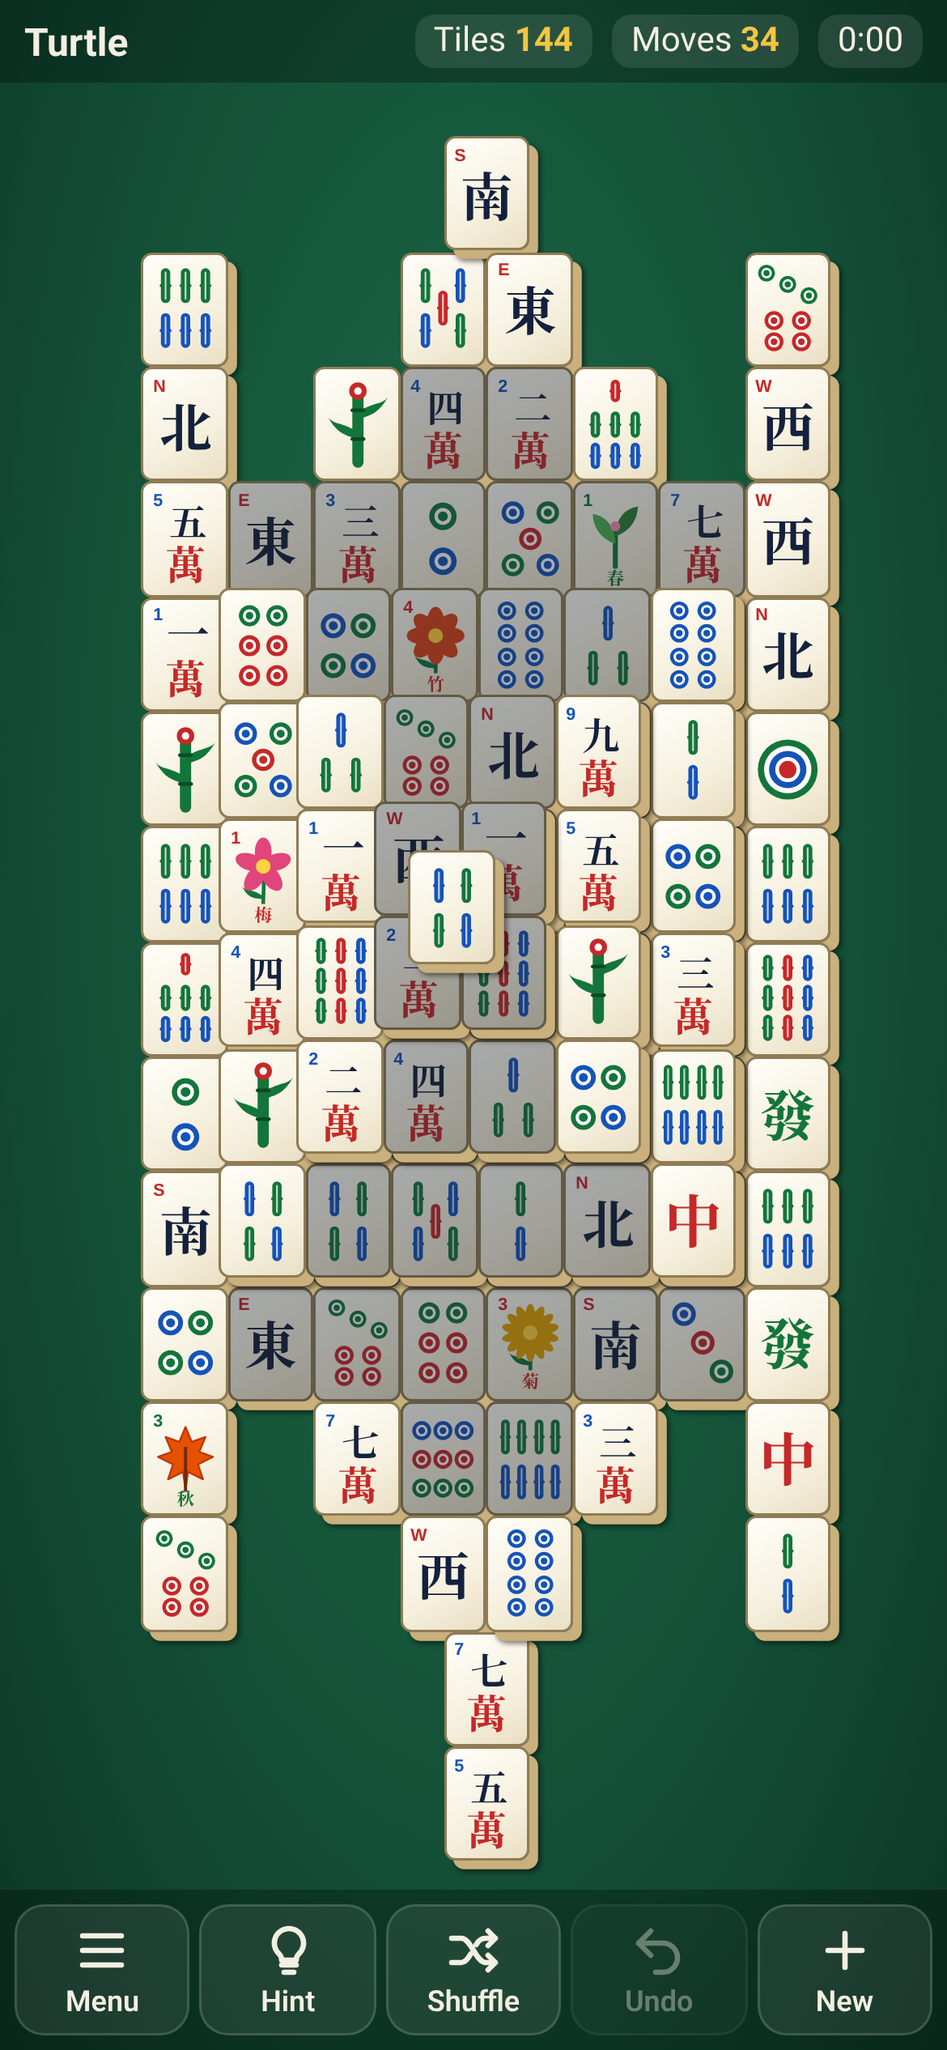
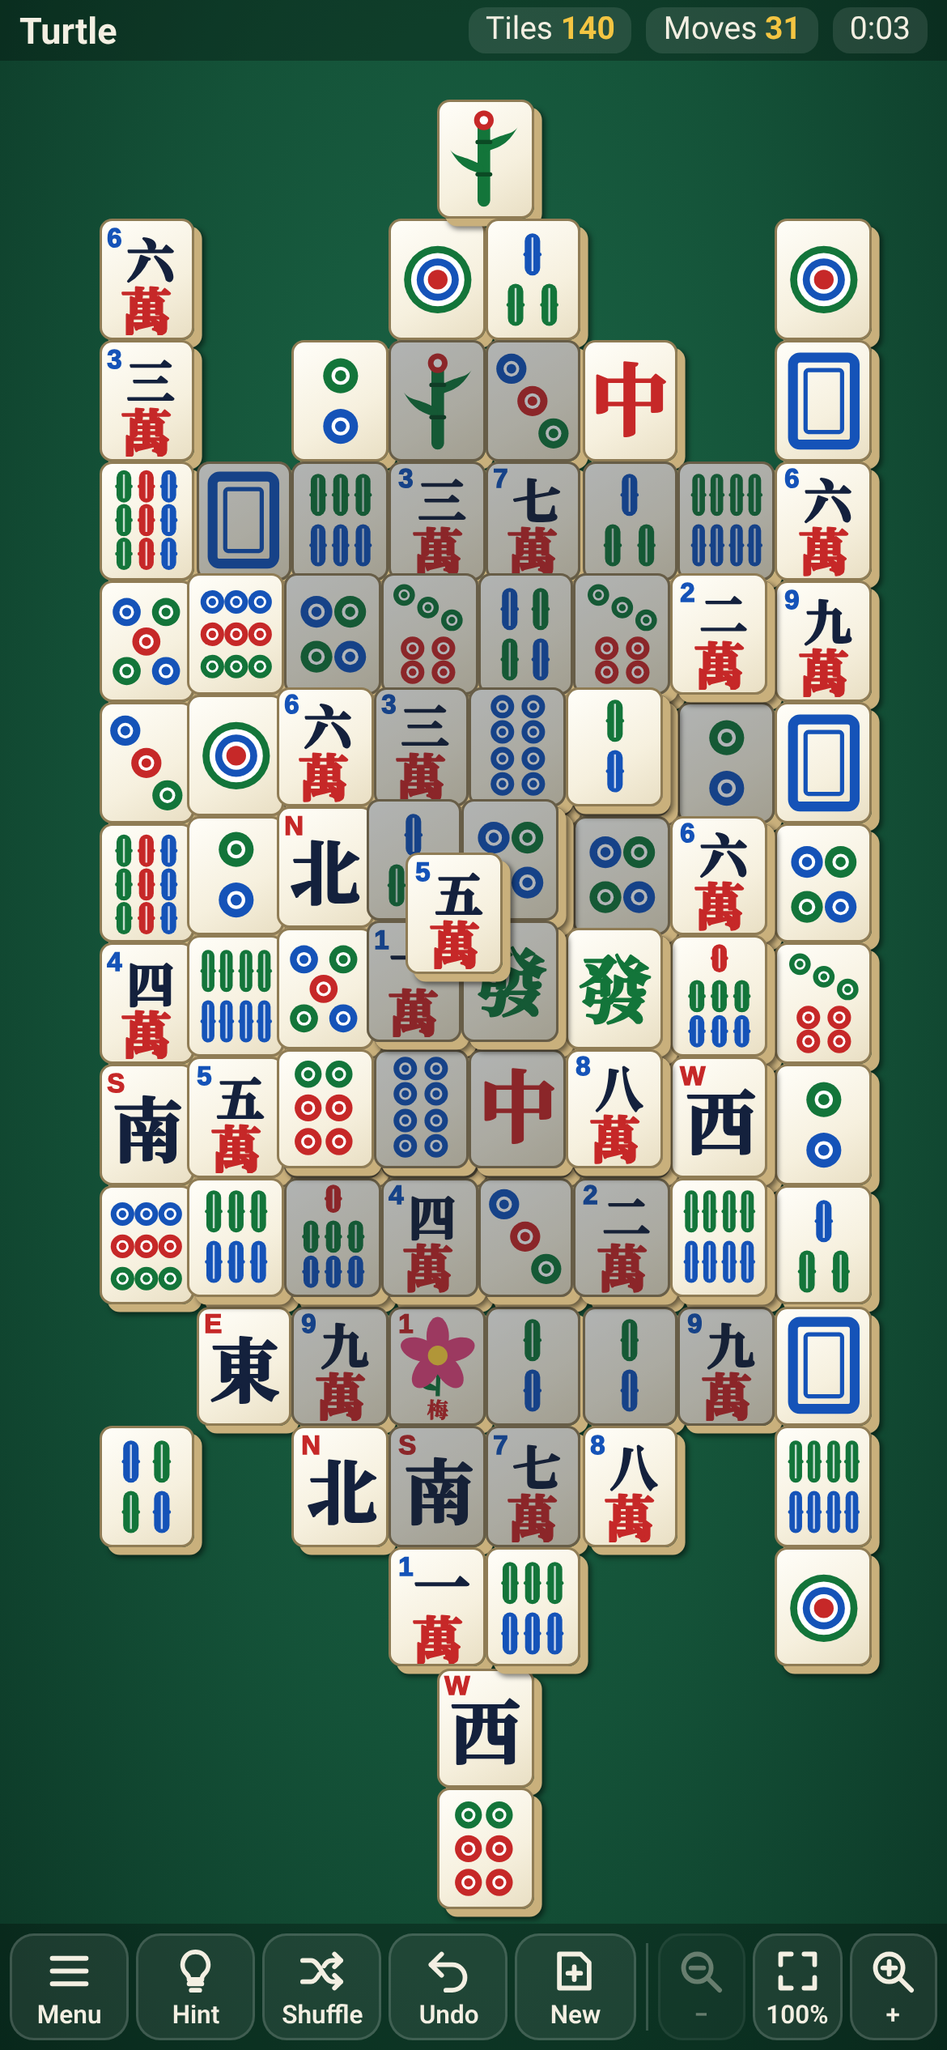
Add pinch/pan zoom with +/−/fit buttons, larger default tiles, bolder tile faces

diff --git a/index.html b/index.html
@@ -15,22 +15,24 @@
 html,body{margin:0;height:100%;overflow:hidden;overscroll-behavior:none}
 body{position:fixed;inset:0;display:flex;flex-direction:column;font-family:-apple-system,BlinkMacSystemFont,"Segoe UI",Roboto,Helvetica,Arial,sans-serif;color:var(--text);
  background:radial-gradient(ellipse at 50% 40%,#1d6b4a 0%,#145238 55%,#0c3726 100%);user-select:none;-webkit-user-select:none;-webkit-touch-callout:none;touch-action:manipulation}
-header{display:flex;align-items:center;gap:8px;padding:calc(env(safe-area-inset-top) + 6px) calc(env(safe-area-inset-right) + 10px) 6px calc(env(safe-area-inset-left) + 10px);background:rgba(0,0,0,.28);font-size:14px;flex:none}
-header .name{font-weight:700;font-size:16px;flex:1;white-space:nowrap;overflow:hidden;text-overflow:ellipsis}
-header .stat{background:rgba(255,255,255,.1);border-radius:8px;padding:3px 8px;white-space:nowrap;font-variant-numeric:tabular-nums}
+header{display:flex;align-items:center;gap:6px;padding:calc(env(safe-area-inset-top) + 3px) calc(env(safe-area-inset-right) + 8px) 3px calc(env(safe-area-inset-left) + 8px);background:rgba(0,0,0,.28);font-size:13px;flex:none}
+header .name{font-weight:700;font-size:15px;flex:1;white-space:nowrap;overflow:hidden;text-overflow:ellipsis}
+header .stat{background:rgba(255,255,255,.1);border-radius:7px;padding:2px 7px;white-space:nowrap;font-variant-numeric:tabular-nums}
 header .stat b{color:var(--accent)}
-#boardWrap{flex:1;position:relative;overflow:hidden;min-height:0}
-#board{position:absolute;inset:0}
-footer{display:flex;justify-content:space-around;gap:4px;padding:6px calc(env(safe-area-inset-right) + 6px) calc(env(safe-area-inset-bottom) + 6px) calc(env(safe-area-inset-left) + 6px);background:rgba(0,0,0,.28);flex:none}
-footer button{flex:1;max-width:110px;display:flex;flex-direction:column;align-items:center;gap:2px;background:rgba(255,255,255,.08);color:var(--text);border:1px solid rgba(255,255,255,.15);border-radius:12px;padding:6px 2px;font-size:12px;font-weight:600;cursor:pointer;font-family:inherit}
+#boardWrap{flex:1;position:relative;overflow:hidden;min-height:0;touch-action:none}
+#board{position:absolute;inset:0;transform-origin:0 0}
+footer{display:flex;justify-content:space-around;gap:3px;padding:4px calc(env(safe-area-inset-right) + 4px) calc(env(safe-area-inset-bottom) + 4px) calc(env(safe-area-inset-left) + 4px);background:rgba(0,0,0,.28);flex:none}
+footer button{flex:1;min-width:0;max-width:100px;display:flex;flex-direction:column;align-items:center;gap:1px;background:rgba(255,255,255,.08);color:var(--text);border:1px solid rgba(255,255,255,.15);border-radius:10px;padding:4px 1px 3px;font-size:10.5px;font-weight:600;cursor:pointer;font-family:inherit;touch-action:manipulation}
+footer button.z{flex:.72;justify-content:center}
+footer .sep{width:1px;background:rgba(255,255,255,.18);margin:4px 1px}
 footer button:active{background:rgba(255,255,255,.22)}
 footer button:disabled{opacity:.4}
-footer svg{width:24px;height:24px;fill:none;stroke:currentColor;stroke-width:2.2;stroke-linecap:round;stroke-linejoin:round}
+footer svg{width:21px;height:21px;fill:none;stroke:currentColor;stroke-width:2.2;stroke-linecap:round;stroke-linejoin:round}
 .tile{position:absolute;border-radius:calc(var(--w)*.13);background:linear-gradient(150deg,#fffef9 0%,#f6f0de 60%,#e9dfc4 100%);border:1px solid #8f7c55;
  box-shadow:var(--d) var(--d) 0 0 #c9b07c,calc(var(--d) + 1px) calc(var(--d) + 1px) 2px 0 rgba(0,0,0,.5);cursor:pointer;transition:opacity .18s,transform .18s}
-.tile svg{position:absolute;inset:4%;width:92%;height:92%;pointer-events:none}
+.tile svg{position:absolute;inset:1.5%;width:97%;height:97%;pointer-events:none}
 .tile::after{content:"";position:absolute;inset:-1px;border-radius:inherit;pointer-events:none;background:transparent;transition:background .15s}
-body.dim .tile.blocked::after{background:rgba(25,35,45,.38)}
+body.dim .tile.blocked::after{background:rgba(25,35,45,.34)}
 .tile.sel{background:linear-gradient(150deg,#fff6c4,#ffd84d);border-color:#c27c00;box-shadow:var(--d) var(--d) 0 0 #c99a2e,0 0 0 2px #ff9d00,0 0 10px 3px rgba(255,190,0,.8)}
 .tile.hint{animation:hint .5s ease-in-out 4 alternate}
 @keyframes hint{from{background:linear-gradient(150deg,#fffef9,#e9dfc4)}to{background:linear-gradient(150deg,#d7f6ff,#6fd3ff);box-shadow:var(--d) var(--d) 0 0 #4a9fc0,0 0 0 2px #00a6ff,0 0 12px 4px rgba(0,170,255,.85)}}
@@ -72,7 +74,11 @@ body.dim .tile.blocked::after{background:rgba(25,35,45,.38)}
   <button id="bHint" aria-label="Hint"><svg viewBox="0 0 24 24"><path d="M9 18h6M10 21h4M12 3a6 6 0 0 0-4 10.5c.8.8 1 1.6 1 2.5h6c0-.9.2-1.7 1-2.5A6 6 0 0 0 12 3z"/></svg>Hint</button>
   <button id="bShuffle" aria-label="Shuffle"><svg viewBox="0 0 24 24"><path d="M3 7h4c4 0 6 10 10 10h4M3 17h4c1.6 0 2.8-1.6 3.9-3.6M13.1 9.6C14.2 7.6 15.4 7 17 7h4M18 4l3 3-3 3M18 14l3 3-3 3"/></svg>Shuffle</button>
   <button id="bUndo" aria-label="Undo"><svg viewBox="0 0 24 24"><path d="M9 14L4 9l5-5"/><path d="M4 9h10a6 6 0 0 1 0 12h-3"/></svg>Undo</button>
-  <button id="bNew" aria-label="New game"><svg viewBox="0 0 24 24"><path d="M12 5v14M5 12h14"/></svg>New</button>
+  <button id="bNew" aria-label="New game"><svg viewBox="0 0 24 24"><path d="M5 4h10l4 4v12H5zM12 10v6M9 13h6"/></svg>New</button>
+  <span class="sep"></span>
+  <button id="zOut" class="z" aria-label="Zoom out"><svg viewBox="0 0 24 24"><circle cx="10.5" cy="10.5" r="6.5"/><path d="M15.5 15.5L21 21M7.5 10.5h6"/></svg><span>−</span></button>
+  <button id="zFit" class="z" aria-label="Fit board"><svg viewBox="0 0 24 24"><path d="M4 9V4h5M20 9V4h-5M4 15v5h5M20 15v5h-5"/></svg><span id="zLbl">100%</span></button>
+  <button id="zIn" class="z" aria-label="Zoom in"><svg viewBox="0 0 24 24"><circle cx="10.5" cy="10.5" r="6.5"/><path d="M15.5 15.5L21 21M7.5 10.5h6M10.5 7.5v6"/></svg><span>+</span></button>
 </footer>
 <div id="toast"></div>
 <div id="modal"><div class="card scroll" id="card"></div></div>
@@ -85,9 +91,9 @@ body.dim .tile.blocked::after{background:rgba(25,35,45,.38)}
 // 31-33 dragons red/green/white, 34-37 flowers, 38-41 seasons
 var RED="#c62828",GRN="#13753a",BLU="#1553b8",INK="#14213d";
 var CJK='"Noto Serif CJK SC","Noto Serif CJK TC","Songti SC","STSong","PingFang SC","Hiragino Sans GB","Microsoft YaHei","Noto Sans CJK SC",serif';
-function txt(x,y,s,size,fill,extra){return '<text x="'+x+'" y="'+y+'" font-size="'+size+'" fill="'+fill+'" text-anchor="middle" font-weight="700" font-family=\''+CJK+'\' '+(extra||'')+'>'+s+'</text>';}
-function idx(s,fill){return '<text x="4" y="14" font-size="14" fill="'+(fill||BLU)+'" font-weight="800" font-family="Arial,Helvetica,sans-serif">'+s+'</text>';}
-function dot(cx,cy,r,c){return '<circle cx="'+cx+'" cy="'+cy+'" r="'+r+'" fill="'+c+'"/><circle cx="'+cx+'" cy="'+cy+'" r="'+(r*.62).toFixed(2)+'" fill="#fff"/><circle cx="'+cx+'" cy="'+cy+'" r="'+(r*.36).toFixed(2)+'" fill="'+c+'"/>';}
+function txt(x,y,s,size,fill,extra){return '<text x="'+x+'" y="'+y+'" font-size="'+size+'" fill="'+fill+'" stroke="'+fill+'" stroke-width="'+(size>=30?1.6:.6)+'" stroke-linejoin="round" text-anchor="middle" font-weight="900" font-family=\''+CJK+'\' '+(extra||'')+'>'+s+'</text>';}
+function idx(s,fill){return '<text x="2" y="17" font-size="19" fill="'+(fill||BLU)+'" stroke="'+(fill||BLU)+'" stroke-width=".8" font-weight="900" font-family="Arial,Helvetica,sans-serif">'+s+'</text>';}
+function dot(cx,cy,r,c){return '<circle cx="'+cx+'" cy="'+cy+'" r="'+r+'" fill="'+c+'"/><circle cx="'+cx+'" cy="'+cy+'" r="'+(r*.52).toFixed(2)+'" fill="#fff"/><circle cx="'+cx+'" cy="'+cy+'" r="'+(r*.32).toFixed(2)+'" fill="'+c+'"/>';}
 function stick(cx,cy,len,c,w){w=w||7.5;var x=cx-w/2,y=cy-len/2;
   return '<rect x="'+x+'" y="'+y+'" width="'+w+'" height="'+len+'" rx="'+(w/2)+'" fill="'+c+'"/>'+
   '<rect x="'+(x-1)+'" y="'+(cy-1.3)+'" width="'+(w+2)+'" height="2.6" rx="1.3" fill="'+c+'"/>'+
@@ -102,7 +108,7 @@ function dotsFace(n){
    8:[[19,12,7.4,B],[41,12,7.4,B],[19,30,7.4,B],[41,30,7.4,B],[19,49,7.4,B],[41,49,7.4,B],[19,67,7.4,B],[41,67,7.4,B]],
    9:[[13,17,7.6,B],[30,17,7.6,B],[47,17,7.6,B],[13,40,7.6,R],[30,40,7.6,R],[47,40,7.6,R],[13,63,7.6,G],[30,63,7.6,G],[47,63,7.6,G]]};
   if(n===1){return '<circle cx="30" cy="40" r="24" fill="'+G+'"/><circle cx="30" cy="40" r="19" fill="#fff"/><circle cx="30" cy="40" r="15" fill="'+B+'"/><circle cx="30" cy="40" r="10" fill="#fff"/><circle cx="30" cy="40" r="7" fill="'+R+'"/>';}
-  L[n].forEach(function(d){s+=dot(d[0],d[1],d[2],d[3]);});return s;}
+  L[n].forEach(function(d){s+=dot(d[0],d[1],Math.min(d[2]*1.13,n>=7?8.4:n>=5?10:13),d[3]);});return s;}
 function bambooFace(n){
   var G=GRN,R=RED,B=BLU,s='';
   if(n===1){ // bird-ish emblem: big stalk with leaves
@@ -117,22 +123,22 @@ function bambooFace(n){
    7:[[30,13,18,R],[14,40,21,G],[30,40,21,G],[46,40,21,G],[14,65,21,B],[30,65,21,B],[46,65,21,B]],
    8:[[10,22,28,G],[23,22,28,G],[37,22,28,G],[50,22,28,G],[10,58,28,B],[23,58,28,B],[37,58,28,B],[50,58,28,B]],
    9:[[14,16,21,G],[30,16,21,R],[46,16,21,B],[14,40,21,G],[30,40,21,R],[46,40,21,B],[14,64,21,G],[30,64,21,R],[46,64,21,B]]};
-  P[n].forEach(function(d){s+=stick(d[0],d[1],d[2],d[3],n===8?7:7.5);});return s;}
+  P[n].forEach(function(d){s+=stick(d[0],d[1],d[2]+2,d[3],n===8?9:n===6||n===9||n===7?10.5:11);});return s;}
 var NUM=['一','二','三','四','五','六','七','八','九'];
-function charFace(n){return idx(n)+txt(32,38,NUM[n-1],n===1?34:30,INK)+txt(30,73,'萬',32,RED);}
+function charFace(n){return idx(n)+txt(33,39,NUM[n-1],n===1?40:34,INK)+txt(30,76,'萬',36,RED);}
 var WIND=[['東','E'],['南','S'],['西','W'],['北','N']];
-function windFace(i){return idx(WIND[i][1],RED)+txt(30,58,WIND[i][0],42,INK);}
+function windFace(i){return idx(WIND[i][1],RED)+txt(31,62,WIND[i][0],50,INK);}
 function dragonFace(i){
-  if(i===0)return txt(30,57,'中',46,RED);
-  if(i===1)return txt(30,57,'發',44,GRN);
-  return '<rect x="11" y="13" width="38" height="54" rx="4" fill="none" stroke="'+BLU+'" stroke-width="5"/><rect x="18" y="20" width="24" height="40" rx="2" fill="none" stroke="'+BLU+'" stroke-width="2"/>';}
+  if(i===0)return txt(30,60,'中',56,RED);
+  if(i===1)return txt(30,60,'發',52,GRN);
+  return '<rect x="8" y="9" width="44" height="62" rx="5" fill="none" stroke="'+BLU+'" stroke-width="7"/><rect x="17" y="18" width="26" height="44" rx="2" fill="none" stroke="'+BLU+'" stroke-width="3"/>';}
 function flower(cx,cy,np,pr,pc,cc){var s='';for(var k=0;k<np;k++){var a=360*k/np;
   s+='<ellipse cx="'+cx+'" cy="'+(cy-pr*.55)+'" rx="'+(pr*(np>8?.2:.32))+'" ry="'+(pr*.55)+'" fill="'+pc+'" transform="rotate('+a+' '+cx+' '+cy+')"/>';}
   return s+'<circle cx="'+cx+'" cy="'+cy+'" r="'+(pr*.28)+'" fill="'+cc+'"/>';}
 var FL=[['梅',5,'#e0457b'],['蘭',6,'#7b3fbf'],['菊',14,'#e0a100'],['竹',8,'#d84315']];
 function flowerFace(i){var f=FL[i];
   return idx(i+1,RED)+'<path d="M30 62 C30 52 31 46 30 40" stroke="'+GRN+'" stroke-width="3" fill="none"/><path d="M30 56 C22 50 16 52 13 48 C18 58 24 58 30 58Z" fill="'+GRN+'"/>'+
-   flower(30,32,f[1],21,f[2],'#ffd23f')+txt(30,76,f[0],14,RED);}
+   flower(30,33,f[1],25,f[2],'#ffd23f')+txt(30,77,f[0],15,RED);}
 var SE=['春','夏','秋','冬'];
 function seasonFace(i){var s=idx(i+1,GRN),ic='';
   if(i===0){ic='<path d="M30 62 L30 34" stroke="'+GRN+'" stroke-width="4" stroke-linecap="round"/><path d="M30 44 C18 40 12 30 12 20 C24 22 30 32 30 44Z" fill="#4caf50"/><path d="M30 38 C42 34 48 24 48 14 C36 16 30 26 30 38Z" fill="#2e7d32"/><circle cx="30" cy="30" r="4" fill="#f48fb1"/>';}
@@ -140,7 +146,7 @@ function seasonFace(i){var s=idx(i+1,GRN),ic='';
   else if(i===2){ic='<path d="M30 14 L35 26 L46 22 L41 34 L52 38 L40 44 L44 56 L32 50 L30 64 L28 50 L16 56 L20 44 L8 38 L19 34 L14 22 L25 26Z" fill="#e65100" stroke="#bf360c" stroke-width="1.5" stroke-linejoin="round"/><line x1="30" y1="30" x2="30" y2="66" stroke="#6d2b00" stroke-width="2.5"/>';}
   else {ic='<g stroke="#1e88e5" stroke-width="3.5" stroke-linecap="round">';for(var k2=0;k2<6;k2++){var b=k2*Math.PI/3,ex=30+Math.cos(b)*22,ey=38+Math.sin(b)*22;ic+='<line x1="30" y1="38" x2="'+ex.toFixed(1)+'" y2="'+ey.toFixed(1)+'"/>';
     var mx=30+Math.cos(b)*14,my=38+Math.sin(b)*14;ic+='<line x1="'+mx.toFixed(1)+'" y1="'+my.toFixed(1)+'" x2="'+(mx+Math.cos(b+.8)*6).toFixed(1)+'" y2="'+(my+Math.sin(b+.8)*6).toFixed(1)+'"/><line x1="'+mx.toFixed(1)+'" y1="'+my.toFixed(1)+'" x2="'+(mx+Math.cos(b-.8)*6).toFixed(1)+'" y2="'+(my+Math.sin(b-.8)*6).toFixed(1)+'"/>';}ic+='</g>';}
-  return s+ic+txt(30,77,SE[i],14,GRN);}
+  return s+'<g transform="translate(30 38) scale(1.18) translate(-30 -38)">'+ic+'</g>'+txt(30,78,SE[i],15,GRN);}
 function faceSVG(f){
   if(f<9)return dotsFace(f+1); if(f<18)return bambooFace(f-8); if(f<27)return charFace(f-17);
   if(f<31)return windFace(f-27); if(f<34)return dragonFace(f-31); if(f<38)return flowerFace(f-34); return seasonFace(f-38);}
@@ -236,11 +242,11 @@ var board=document.getElementById('board'),wrap=document.getElementById('boardWr
 function chooseTrans(id){
   if(prefs.orient==='wide')return false;if(prefs.orient==='tall')return true;
   var aw=wrap.clientWidth,ah=wrap.clientHeight;
-  return fitW(positionsFor(id,true),aw,ah)>fitW(positionsFor(id,false),aw,ah)*1.08;}
-var R=4/3,DZ=0.1;
+  return fitW(positionsFor(id,true),aw,ah)>fitW(positionsFor(id,false),aw,ah);}
+var R=1.25,DZ=0.08;
 function metrics(pos){var m={x:0,y:0,z:0};pos.forEach(function(p){m.x=Math.max(m.x,p.x+2);m.y=Math.max(m.y,p.y+2);m.z=Math.max(m.z,p.z);});return m;}
-function fitW(pos,aw,ah){var m=metrics(pos),pad=8;
-  return Math.min((aw-pad*2)/(m.x/2+DZ*(m.z+1)),(ah-pad*2)/(R*m.y/2+DZ*(m.z+1)),96);}
+function fitW(pos,aw,ah){var m=metrics(pos),pad=3;
+  return Math.min((aw-pad*2)/(m.x/2+DZ*(m.z+1)),(ah-pad*2)/(R*m.y/2+DZ*(m.z+1)),110);}
 function newGame(id){
   id=id||prefs.layout;prefs.layout=id;store('mj.prefs',prefs);
   if(G&&G.counted&&!G.won){stats.streak=0;store('mj.stats',stats);}
@@ -266,7 +272,8 @@ function layout(){if(!G)return;
   var bw=m.x/2*W+d*(m.z+1),bh=m.y/2*H+d*(m.z+1),ox=(aw-bw)/2,oy=(ah-bh)/2;
   board.style.setProperty('--w',W+'px');board.style.setProperty('--d',d.toFixed(1)+'px');
   G.pos.forEach(function(p,i){var e=els[i];e.style.left=(ox+p.x/2*W+(m.z-p.z)*d).toFixed(1)+'px';e.style.top=(oy+p.y/2*H+(m.z-p.z)*d).toFixed(1)+'px';
-    e.style.width=W.toFixed(1)+'px';e.style.height=H.toFixed(1)+'px';});}
+    e.style.width=W.toFixed(1)+'px';e.style.height=H.toFixed(1)+'px';});
+  applyZoom();}
 function freeList(){var r=[];for(var i=0;i<G.pos.length;i++)if(G.alive[i]&&isFree(NB,G.alive,i))r.push(i);return r;}
 function allPairs(){var fr=freeList(),out=[];for(var a=0;a<fr.length;a++)for(var b=a+1;b<fr.length;b++)if(matches(G.face[fr[a]],G.face[fr[b]]))out.push([fr[a],fr[b]]);return out;}
 function remaining(){var c=0;G.alive.forEach(function(a){if(a)c++;});return c;}
@@ -286,7 +293,56 @@ setInterval(function(){var now=Date.now();
   lastTick=now;},250);
 
 /* ---------- Interaction ---------- */
-board.addEventListener('click',function(ev){var t=ev.target.closest('.tile');if(!t||!G||G.won)return;tap(+t.dataset.i);});
+/* Zoom & pan: board is transformed with translate+scale; taps select, drags pan, two fingers pinch. */
+var Z={s:Math.min(3,Math.max(1,+prefs.zoom||1)),tx:0,ty:0},ZMIN=1,ZMAX=3,ptrs={},gest=null,lastGesture=0,lastPtrTap=0,zSaveT;
+function clampZ(){var aw=wrap.clientWidth,ah=wrap.clientHeight;Z.s=Math.min(ZMAX,Math.max(ZMIN,Z.s));
+  Z.tx=Math.min(0,Math.max(aw*(1-Z.s),Z.tx));Z.ty=Math.min(0,Math.max(ah*(1-Z.s),Z.ty));}
+function applyZoom(){clampZ();board.style.transform='translate('+Z.tx.toFixed(1)+'px,'+Z.ty.toFixed(1)+'px) scale('+Z.s.toFixed(3)+')';
+  document.getElementById('zLbl').textContent=Math.round(Z.s*100)+'%';
+  document.getElementById('zOut').disabled=Z.s<=ZMIN+1e-3;document.getElementById('zIn').disabled=Z.s>=ZMAX-1e-3;}
+function saveZoom(){clearTimeout(zSaveT);zSaveT=setTimeout(function(){prefs.zoom=+Z.s.toFixed(3);store('mj.prefs',prefs);},150);}
+function zoomAt(cx,cy,ns){var cX=(cx-Z.tx)/Z.s,cY=(cy-Z.ty)/Z.s;Z.s=Math.min(ZMAX,Math.max(ZMIN,ns));Z.tx=cx-cX*Z.s;Z.ty=cy-cY*Z.s;applyZoom();saveZoom();}
+function zoomCenter(ns){zoomAt(wrap.clientWidth/2,wrap.clientHeight/2,ns);}
+function centerPan(){Z.tx=wrap.clientWidth*(1-Z.s)/2;Z.ty=wrap.clientHeight*(1-Z.s)/2;applyZoom();}
+function rel(e){var r=wrap.getBoundingClientRect();return {x:e.clientX-r.left,y:e.clientY-r.top};}
+function ptrList(){return Object.keys(ptrs).map(function(k){return ptrs[k];});}
+function startPinch(){var p=ptrList(),a=p[0],b=p[1],mx=(a.x+b.x)/2,my=(a.y+b.y)/2;
+  gest={mode:'pinch',d0:Math.max(10,Math.hypot(a.x-b.x,a.y-b.y)),s0:Z.s,cx:(mx-Z.tx)/Z.s,cy:(my-Z.ty)/Z.s};}
+wrap.addEventListener('pointerdown',function(e){
+  if(e.pointerType==='mouse'&&e.button!==0)return;
+  try{wrap.setPointerCapture(e.pointerId);}catch(_){}
+  var q=rel(e);ptrs[e.pointerId]={x:q.x,y:q.y};var n=ptrList().length;
+  if(n===1)gest={mode:'tap',x0:q.x,y0:q.y,tx0:Z.tx,ty0:Z.ty,cx:e.clientX,cy:e.clientY};
+  else if(n===2)startPinch();
+  else gest={mode:'done'};});
+wrap.addEventListener('pointermove',function(e){
+  if(!ptrs[e.pointerId]||!gest)return;var q=rel(e);ptrs[e.pointerId]={x:q.x,y:q.y};
+  if(gest.mode==='pinch'){var p=ptrList();if(p.length<2)return;var a=p[0],b=p[1],mx=(a.x+b.x)/2,my=(a.y+b.y)/2;
+    Z.s=Math.min(ZMAX,Math.max(ZMIN,gest.s0*Math.hypot(a.x-b.x,a.y-b.y)/gest.d0));Z.tx=mx-gest.cx*Z.s;Z.ty=my-gest.cy*Z.s;applyZoom();}
+  else if(gest.mode==='tap'||gest.mode==='pan'){var dx=q.x-gest.x0,dy=q.y-gest.y0;
+    if(gest.mode==='tap'&&Math.hypot(dx,dy)>9)gest.mode='pan';
+    if(gest.mode==='pan'){Z.tx=gest.tx0+dx;Z.ty=gest.ty0+dy;applyZoom();}}
+  e.preventDefault();});
+function ptrEnd(e){if(!ptrs[e.pointerId])return;delete ptrs[e.pointerId];var n=ptrList().length;
+  if(!gest)return;
+  if(gest.mode==='tap'&&n===0&&e.type==='pointerup'){gest=null;lastPtrTap=Date.now();hitTap(e.clientX,e.clientY);return;}
+  if(gest.mode!=='tap')lastGesture=Date.now();
+  if(gest.mode==='pinch'||gest.mode==='pan')saveZoom();
+  if(n===1&&gest.mode==='pinch'){var p=ptrList()[0];gest={mode:'pan',x0:p.x,y0:p.y,tx0:Z.tx,ty0:Z.ty};}
+  else if(n===0)gest=null;}
+wrap.addEventListener('pointerup',ptrEnd);wrap.addEventListener('pointercancel',ptrEnd);
+function hitTap(x,y){var el=document.elementFromPoint(x,y),t=el&&el.closest&&el.closest('.tile');if(!t||!G||G.won||modalOpen())return;tap(+t.dataset.i);}
+// Fallback for environments that only deliver click (no pointer events); ignored after a pointer tap or a drag/pinch.
+board.addEventListener('click',function(ev){var now=Date.now();if(now-lastPtrTap<700||now-lastGesture<700)return;hitTap(ev.clientX,ev.clientY);});
+wrap.addEventListener('wheel',function(e){e.preventDefault();var q=rel(e);
+  zoomAt(q.x,q.y,Z.s*Math.exp(-e.deltaY*(e.ctrlKey?0.01:0.0025)));},{passive:false});
+function ensureVisible(idxs){if(Z.s<=1)return;var W=wrap.getBoundingClientRect(),need=false,x0=1e9,y0=1e9,x1=-1e9,y1=-1e9;
+  idxs.forEach(function(i){var r=els[i].getBoundingClientRect();if(r.left<W.left||r.right>W.right||r.top<W.top||r.bottom>W.bottom)need=true;
+    x0=Math.min(x0,r.left);y0=Math.min(y0,r.top);x1=Math.max(x1,r.right);y1=Math.max(y1,r.bottom);});
+  if(!need)return;
+  // content-space centre of the tiles; zoom out just enough for all of them to fit
+  var cx=((x0+x1)/2-W.left-Z.tx)/Z.s,cy=((y0+y1)/2-W.top-Z.ty)/Z.s,sw=(x1-x0)/Z.s,sh=(y1-y0)/Z.s;
+  Z.s=Math.max(ZMIN,Math.min(Z.s,W.width*.92/sw,W.height*.92/sh));Z.tx=W.width/2-cx*Z.s;Z.ty=W.height/2-cy*Z.s;applyZoom();saveZoom();}
 function tap(i){
   if(!G.alive[i])return;clearHint();
   if(!isFree(NB,G.alive,i)){var e=els[i];e.classList.remove('shake');void e.offsetWidth;e.classList.add('shake');toast('That tile is blocked');return;}
@@ -309,7 +365,7 @@ function undo(){if(!G||G.won||!G.undo.length)return;clearHint();var u=G.undo.pop
   sel=-1;refresh();save();closeModal();}
 function hint(){if(!G||G.won)return;clearHint();var p=allPairs();if(!p.length){stuck();return;}
   var pr=p[rnd(p.length)];G.hints++;sel=-1;refresh();
-  pr.forEach(function(k){els[k].classList.add('hint');});hintTimer=setTimeout(clearHint,2100);}
+  ensureVisible(pr);pr.forEach(function(k){els[k].classList.add('hint');});hintTimer=setTimeout(clearHint,2100);}
 function clearHint(){clearTimeout(hintTimer);els.forEach(function(e){e.classList.remove('hint');});}
 function shuffle(silent){
   if(!G||G.won)return false;clearHint();
@@ -379,7 +435,10 @@ document.getElementById('bNew').onclick=function(){newGame(G?G.layout:prefs.layo
 window.addEventListener('resize',layout);
 window.addEventListener('orientationchange',function(){setTimeout(layout,200);});
 document.addEventListener('touchmove',function(e){if(!e.target.closest('.scroll'))e.preventDefault();},{passive:false});
-document.addEventListener('gesturestart',function(e){e.preventDefault();});
+['gesturestart','gesturechange','gestureend'].forEach(function(t){document.addEventListener(t,function(e){e.preventDefault();},{passive:false});});
+document.getElementById('zIn').onclick=function(){zoomCenter(Z.s*1.25);};
+document.getElementById('zOut').onclick=function(){zoomCenter(Z.s/1.25);};
+document.getElementById('zFit').onclick=function(){Z.s=1;Z.tx=0;Z.ty=0;applyZoom();saveZoom();};
 document.addEventListener('dblclick',function(e){e.preventDefault();});
 document.addEventListener('visibilitychange',function(){if(document.hidden)save();});
 document.addEventListener('keydown',function(e){if(e.key==='z'&&(e.ctrlKey||e.metaKey)){undo();e.preventDefault();}else if(e.key==='h')hint();else if(e.key==='Escape')closeModal();});
@@ -392,10 +451,11 @@ window.__mj={layouts:LAYOUTS.map(function(l){return l.id;}),positionsFor:positio
   state:function(){return {layout:G.layout,trans:G.trans,pos:G.pos,face:G.face,alive:G.alive,sel:sel,won:G.won,undo:G.undo.length,solution:G.solution,elapsed:G.elapsed};},
   tileCenter:function(i){var r=els[i].getBoundingClientRect();return {x:r.left+r.width*.45,y:r.top+r.height*.45,w:r.width,h:r.height};},
   freeList:function(){return freeList();},pairs:function(){return allPairs();},shuffle:function(){return shuffle(true);},
-  newGame:newGame,faceName:faceName,
+  newGame:newGame,faceName:faceName,zoom:function(){return {s:Z.s,tx:Z.tx,ty:Z.ty};},show:function(a){ensureVisible(a);},setZoom:function(s){zoomCenter(s);},
   setAlive:function(alive){G.alive=alive.slice();sel=-1;refresh();save();afterMove();}};
 
 if(!restore())newGame(prefs.layout);
+centerPan();
 lastTick=Date.now();
 })();
 </script>
